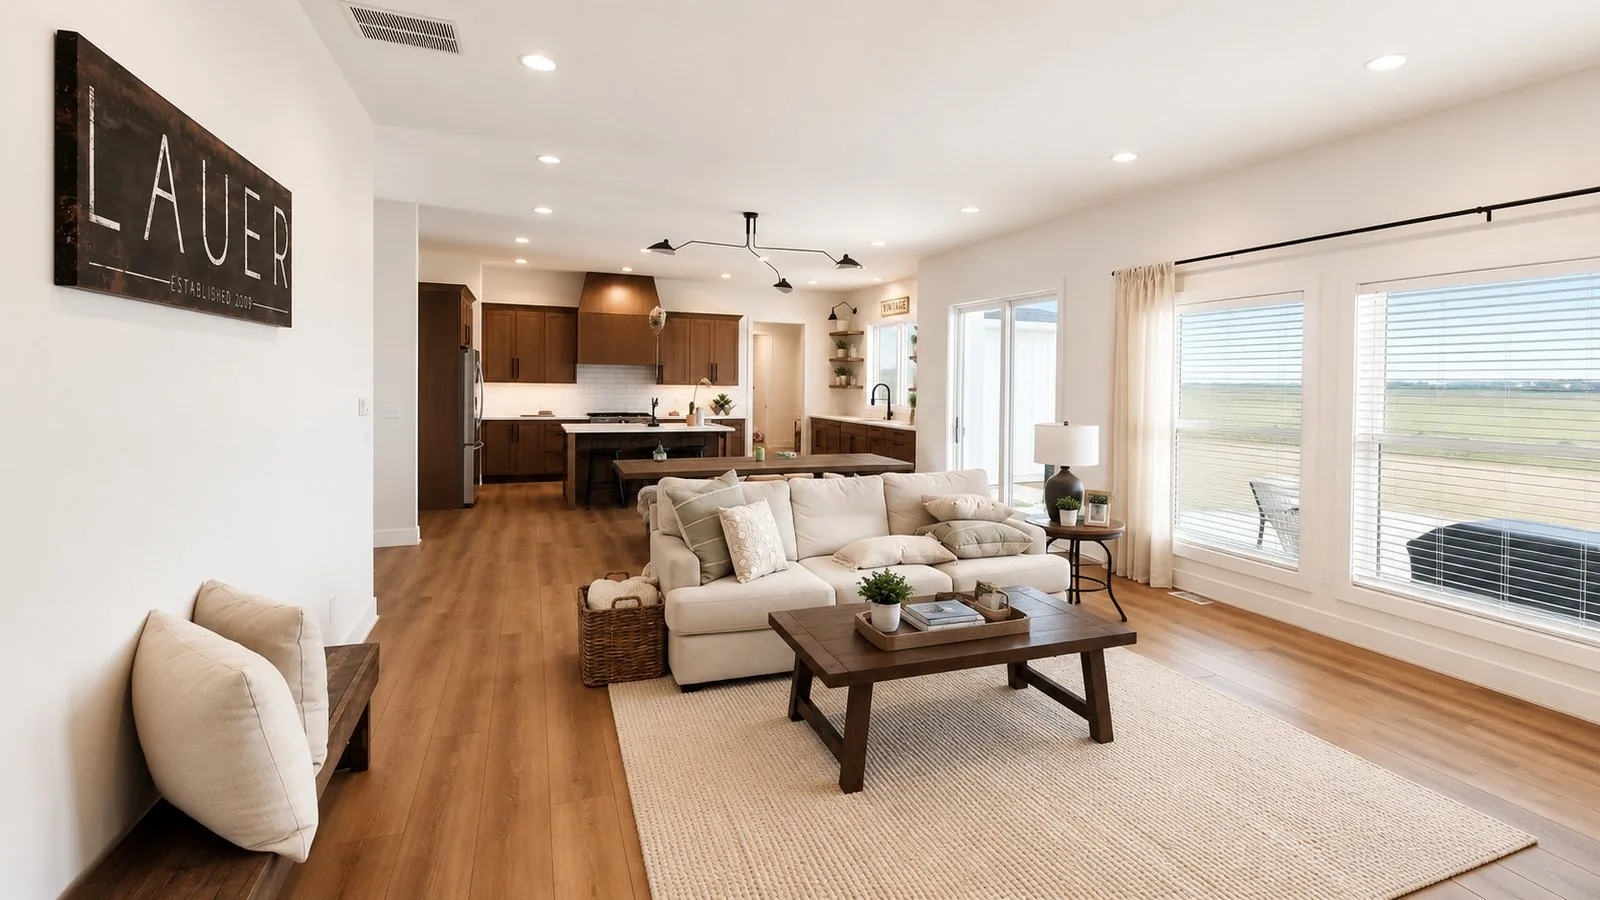
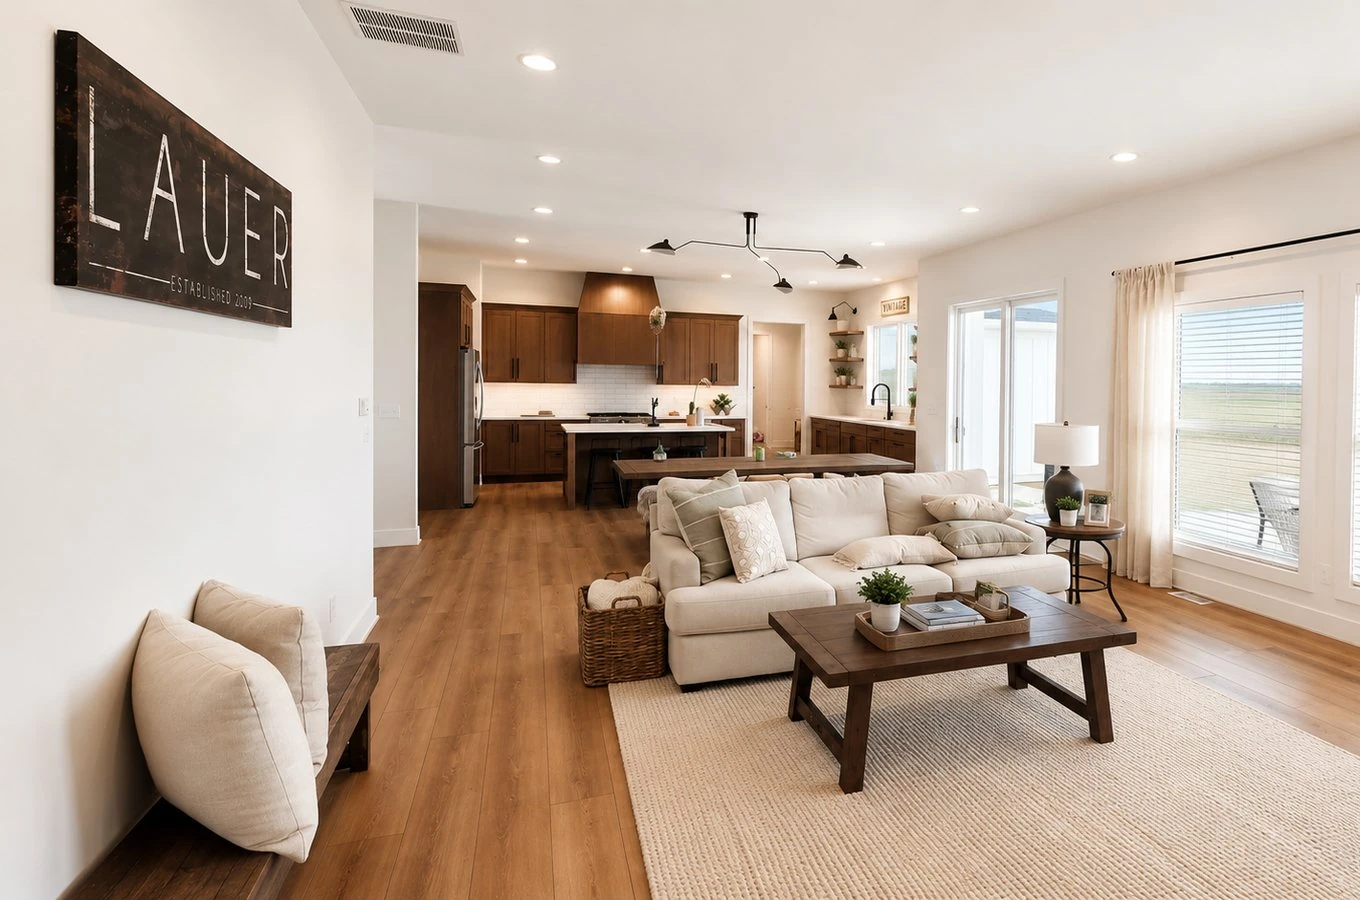
Shift hero photo further right with the updated source image
New hero-work.webp (1360x900) has more left-wall headroom. Photo narrowed to 58%
so it starts at 41%, crop pinned right, and the feather shortened since the copy
now clears the photo entirely. Client family-name sign is out of frame.

diff --git a/style.css b/style.css
@@ -124,9 +124,9 @@ section{padding:4.2rem 0}
    pushes the crop right so the living room sits centred in the image area.
    The photo's own left edge is feathered with a mask, so there is no hard seam
    and no need for an overlay veiling the room. */
-.heroPhoto .hero-photo{position:absolute;top:0;right:0;bottom:0;left:auto;width:64%;max-width:none;height:100%;object-fit:cover;object-position:92% center;z-index:0;
-  -webkit-mask-image:linear-gradient(90deg,transparent 0%,transparent 4%,rgba(0,0,0,.35) 16%,#000 34%);
-  mask-image:linear-gradient(90deg,transparent 0%,transparent 4%,rgba(0,0,0,.35) 16%,#000 34%)}
+.heroPhoto .hero-photo{position:absolute;top:0;right:0;bottom:0;left:auto;width:58%;max-width:none;height:100%;object-fit:cover;object-position:100% center;z-index:0;
+  -webkit-mask-image:linear-gradient(90deg,transparent 0%,rgba(0,0,0,.30) 10%,#000 22%);
+  mask-image:linear-gradient(90deg,transparent 0%,rgba(0,0,0,.30) 10%,#000 22%)}
 /* No cream overlay needed on desktop: the mask does the blending. */
 .heroPhoto::before{content:"";position:absolute;inset:0;z-index:1;pointer-events:none;background:none}
 .heroPhoto .hero-content{max-width:440px}
